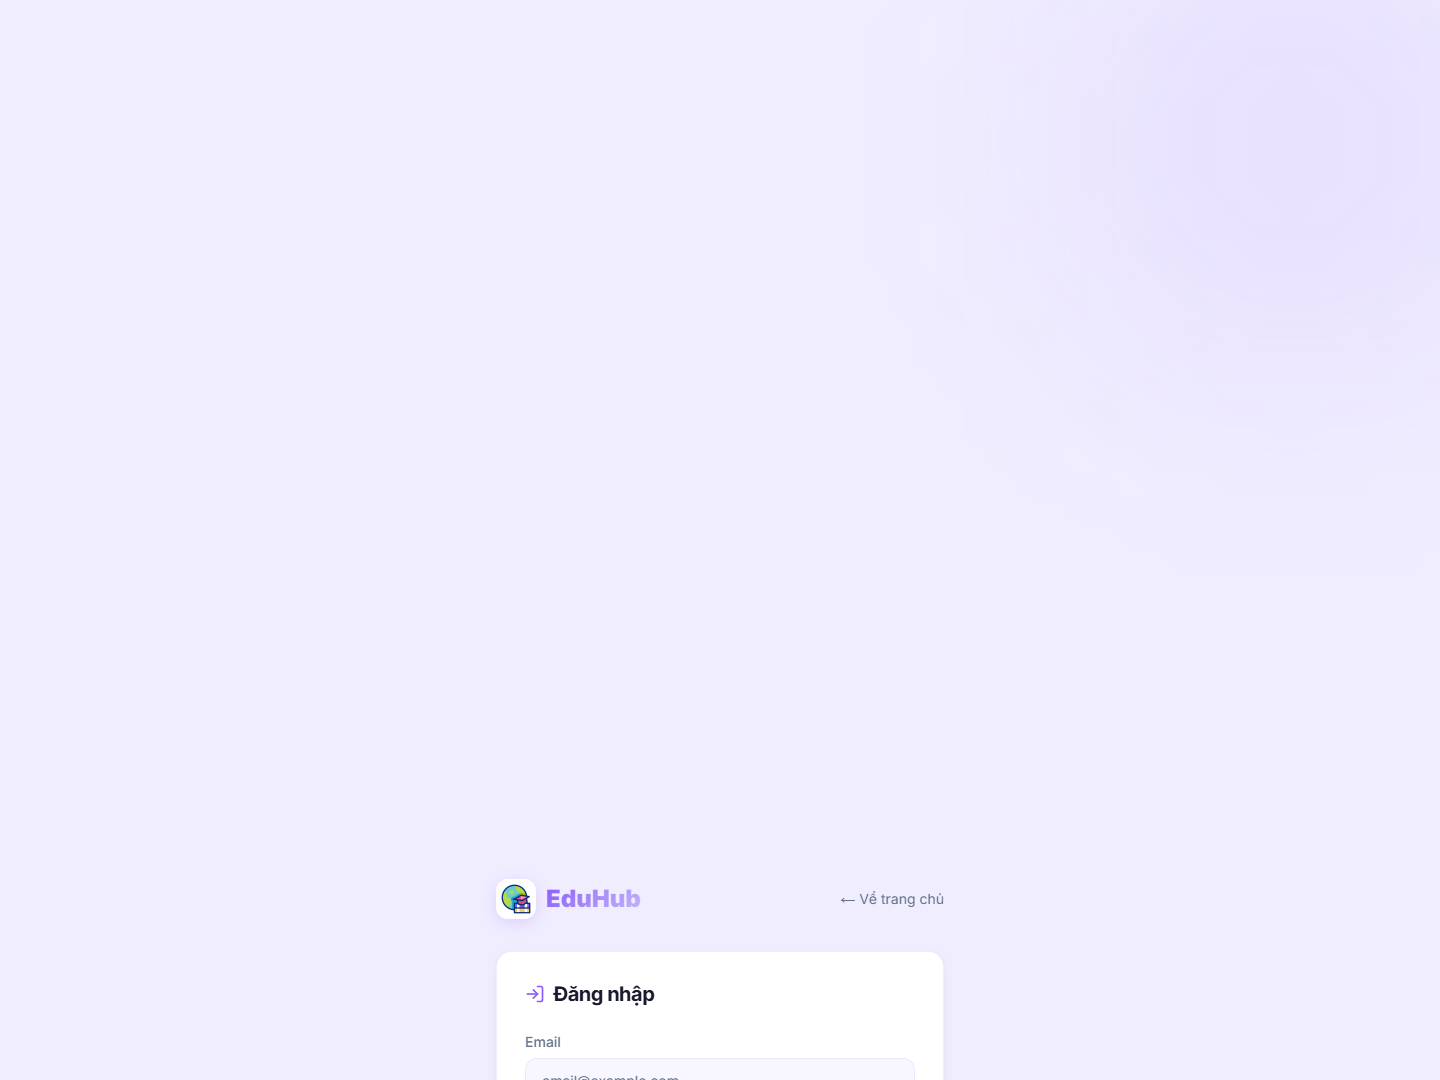
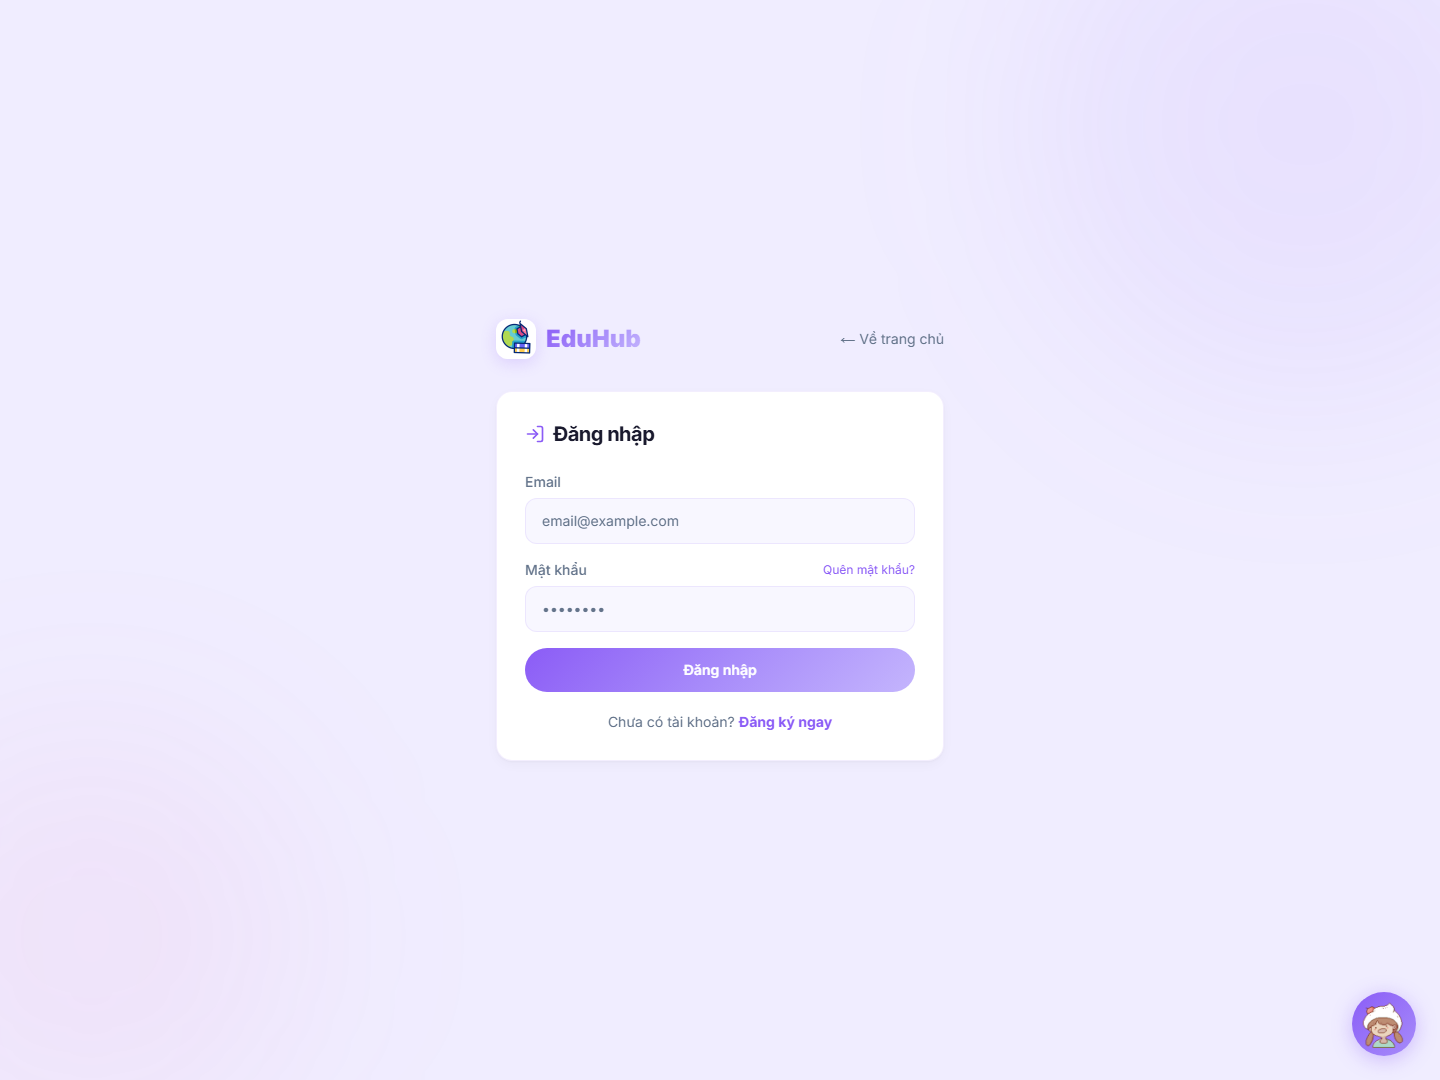
Expand EduHub visuals across public and admin surfaces

diff --git a/README.vi.md b/README.vi.md
@@ -58,7 +58,9 @@ Repository này là hub public để giới thiệu sản phẩm và hỗ trợ 
 - Cơ chế khám phá theo chủ đề cho visa, học bổng, quốc gia, trường học và đời sống du học.
 - Lớp AI hỗ trợ trả lời nhanh và gợi mở luồng tư vấn khi phù hợp.
 - Trải nghiệm thành viên sau đăng nhập để đăng bài, tương tác và tham gia sâu hơn.
-- Hệ thống quản trị cho dashboard, kiểm duyệt bài viết, thành viên, chủ đề, lead và vận hành.
+- Các màn chi tiết bài viết và luồng bình luận để thảo luận thật được nhìn thấy rõ thay vì bị ẩn sau form.
+- Trang hồ sơ thành viên để cộng đồng có gương mặt, ngữ cảnh và tín hiệu tin cậy rõ hơn.
+- Hệ thống quản trị cho dashboard, kiểm duyệt bài viết, thành viên, chủ đề, kho kiến thức AI, cài đặt, lead và vận hành.
 
 ## Nhìn Nhanh
 
@@ -74,16 +76,27 @@ Repository này là hub public để giới thiệu sản phẩm và hỗ trợ 
 ### Trải Nghiệm Người Dùng
 
 <p align="center">
-  <img src="assets/screenshots/06-homepage-preview.png" alt="EduHub homepage preview" width="32%">
+  <img src="assets/screenshots/06-homepage-preview.png" alt="EduHub xem nhanh trang chủ" width="32%">
   <img src="assets/screenshots/02-login.png" alt="EduHub đăng nhập" width="32%">
-  <img src="assets/screenshots/03-post-login.png" alt="EduHub feed sau khi đăng nhập" width="32%">
+  <img src="assets/screenshots/03-post-comments.png" alt="EduHub chi tiết bài viết và bình luận" width="32%">
+</p>
+
+<p align="center">
+  <img src="assets/screenshots/04-member-profile.png" alt="EduHub hồ sơ thành viên" width="32%">
 </p>
 
 ### Hệ Thống Quản Trị
 
 <p align="center">
-  <img src="assets/screenshots/04-admin-dashboard.png" alt="EduHub dashboard quản trị" width="32%">
-  <img src="assets/screenshots/05-admin-posts.png" alt="EduHub quản lý bài viết" width="32%">
+  <img src="assets/screenshots/05-admin-dashboard.png" alt="EduHub dashboard quản trị" width="32%">
+  <img src="assets/screenshots/06-admin-posts.png" alt="EduHub quản lý bài viết" width="32%">
+  <img src="assets/screenshots/07-admin-users.png" alt="EduHub quản lý thành viên" width="32%">
+</p>
+
+<p align="center">
+  <img src="assets/screenshots/08-admin-topics.png" alt="EduHub quản lý chủ đề" width="32%">
+  <img src="assets/screenshots/09-admin-knowledge.png" alt="EduHub kho kiến thức AI" width="32%">
+  <img src="assets/screenshots/10-admin-settings.png" alt="EduHub cài đặt hệ thống" width="32%">
 </p>
 
 ## Hình Dạng Sản Phẩm Phía Người Dùng
@@ -92,7 +105,8 @@ EduHub cho người dùng một điểm vào mềm hơn khi tìm hiểu du học
 
 - Trang Chủ Và Feed Khám Phá.
 - Đăng Nhập Và Luồng Thành Viên.
-- Bài Viết Cộng Đồng Và Duyệt Theo Chủ Đề.
+- Bài Viết Cộng Đồng, Duyệt Theo Chủ Đề Và Luồng Bình Luận.
+- Trang Hồ Sơ Thành Viên Và Danh Tính Người Đóng Góp.
 - Lớp AI Hỗ Trợ Hỏi Đáp.
 - Cơ Chế Xây Dựng Niềm Tin Trước Khi Đi Vào Tư Vấn.
 
@@ -102,7 +116,10 @@ EduHub cũng có một lớp vận hành thật sự ở phía sau:
 
 - Dashboard Hệ Thống Với Các Chỉ Số Cốt Lõi.
 - Quy Trình Kiểm Duyệt Và Quản Lý Bài Viết.
+- Kiểm Soát Thành Viên Và Quyền Truy Cập.
 - Quản Lý Chủ Đề Và Cấu Trúc Nội Dung.
+- Quản Lý Kho Kiến Thức AI.
+- Cài Đặt Hệ Thống Và Công Cụ Vận Hành.
 - Giám Sát Thành Viên Và Hoạt Động Cộng Đồng.
 - Tiếp Nhận Lead Và Theo Dõi Xử Lý.
 
@@ -141,11 +158,12 @@ Nó tồn tại để giải bài toán thực tế hơn:
 
 - Trang Chủ Và Feed Public.
 - Luồng Đăng Nhập Và Cộng Đồng Sau Đăng Nhập.
-- Trải Nghiệm Đăng Bài Và Đọc Bài.
+- Trải Nghiệm Đăng Bài, Đọc Bài Và Bình Luận.
+- Trang Hồ Sơ Thành Viên.
 - Lớp AI Hỗ Trợ.
 - Dashboard Quản Trị.
 - Quản Lý Bài Viết Phía Admin.
-- Các Bề Mặt Admin Khác Cho Vận Hành.
+- Các Bề Mặt Admin Cho Thành Viên, Chủ Đề, Kho Kiến Thức Và Cài Đặt.
 
 ### Lưu ý quan trọng
 

diff --git a/README.md b/README.md
@@ -58,7 +58,9 @@ This repository is a public product-information and support hub for the live Edu
 - Topic-led exploration across visas, scholarships, countries, schools, and student life.
 - An AI assistance layer for quick answers and consultation handoff.
 - A signed-in member experience for posting, reacting, and participating more deeply.
-- An admin system for dashboard review, post moderation, users, topics, leads, and operational handling.
+- Public post-detail and comment-thread views that make real discussion visible instead of hiding it behind forms.
+- Member profile pages that turn anonymous traffic into recognizable contributors and community trust signals.
+- An admin system for dashboard review, post moderation, users, topics, AI knowledge base control, settings, leads, and operational handling.
 
 ## At A Glance
 
@@ -76,14 +78,25 @@ This repository is a public product-information and support hub for the live Edu
 <p align="center">
   <img src="assets/screenshots/06-homepage-preview.png" alt="EduHub homepage preview" width="32%">
   <img src="assets/screenshots/02-login.png" alt="EduHub login page" width="32%">
-  <img src="assets/screenshots/03-post-login.png" alt="EduHub signed-in feed" width="32%">
+  <img src="assets/screenshots/03-post-comments.png" alt="EduHub post detail and comments" width="32%">
+</p>
+
+<p align="center">
+  <img src="assets/screenshots/04-member-profile.png" alt="EduHub member profile" width="32%">
 </p>
 
 ### Admin System
 
 <p align="center">
-  <img src="assets/screenshots/04-admin-dashboard.png" alt="EduHub admin dashboard" width="32%">
-  <img src="assets/screenshots/05-admin-posts.png" alt="EduHub admin post moderation" width="32%">
+  <img src="assets/screenshots/05-admin-dashboard.png" alt="EduHub admin dashboard" width="32%">
+  <img src="assets/screenshots/06-admin-posts.png" alt="EduHub admin post moderation" width="32%">
+  <img src="assets/screenshots/07-admin-users.png" alt="EduHub admin user management" width="32%">
+</p>
+
+<p align="center">
+  <img src="assets/screenshots/08-admin-topics.png" alt="EduHub admin topic management" width="32%">
+  <img src="assets/screenshots/09-admin-knowledge.png" alt="EduHub admin AI knowledge base" width="32%">
+  <img src="assets/screenshots/10-admin-settings.png" alt="EduHub admin system settings" width="32%">
 </p>
 
 ## Public-Side Product Shape
@@ -92,7 +105,8 @@ EduHub gives users a softer entry point into study-abroad research:
 
 - Homepage And Feed Discovery.
 - Login And Member Participation.
-- Community Posts And Topic Browsing.
+- Community Posts, Topic Browsing, And Post-Level Discussions.
+- Member Profile Pages And Contributor Identity.
 - AI-Assisted Question Flow.
 - Organic Trust-Building Before Consultation.
 
@@ -102,7 +116,10 @@ EduHub also includes a real operator surface behind the public experience:
 
 - System Dashboard With Core Counts.
 - Post Review And Moderation Workflow.
+- User Oversight And Access Review.
 - Topic And Structure Management.
+- AI Knowledge Base Management.
+- System Settings And Operator Controls.
 - Member And Community Oversight.
 - Lead Intake And Follow-Up Handling.
 
@@ -141,11 +158,12 @@ That is why the product feels useful on both sides:
 
 - Public Homepage And Feed.
 - Login And Signed-In Community Flow.
-- Community Posting And Reading Experience.
+- Community Posting, Reading, And Comment-Thread Experience.
+- Member Profile Surface.
 - AI Assistance Layer.
 - Admin Dashboard.
 - Admin Post Management.
-- Additional Admin Surfaces For Operations.
+- Admin Users, Topics, Knowledge, And Settings Surfaces.
 
 ### Important caveats
 

diff --git a/assets/screenshots/README.md b/assets/screenshots/README.md
@@ -6,9 +6,14 @@ Screenshots in this folder were captured from the live EduHub deployment at:
 
 Current set includes:
 
-- public homepage
+- public homepage hero
 - public homepage preview
 - login page
-- signed-in community state
+- post-detail page with comments
+- member profile page
 - admin dashboard view
 - admin post-management view
+- admin user-management view
+- admin topic-management view
+- admin AI knowledge-base view
+- admin settings view
